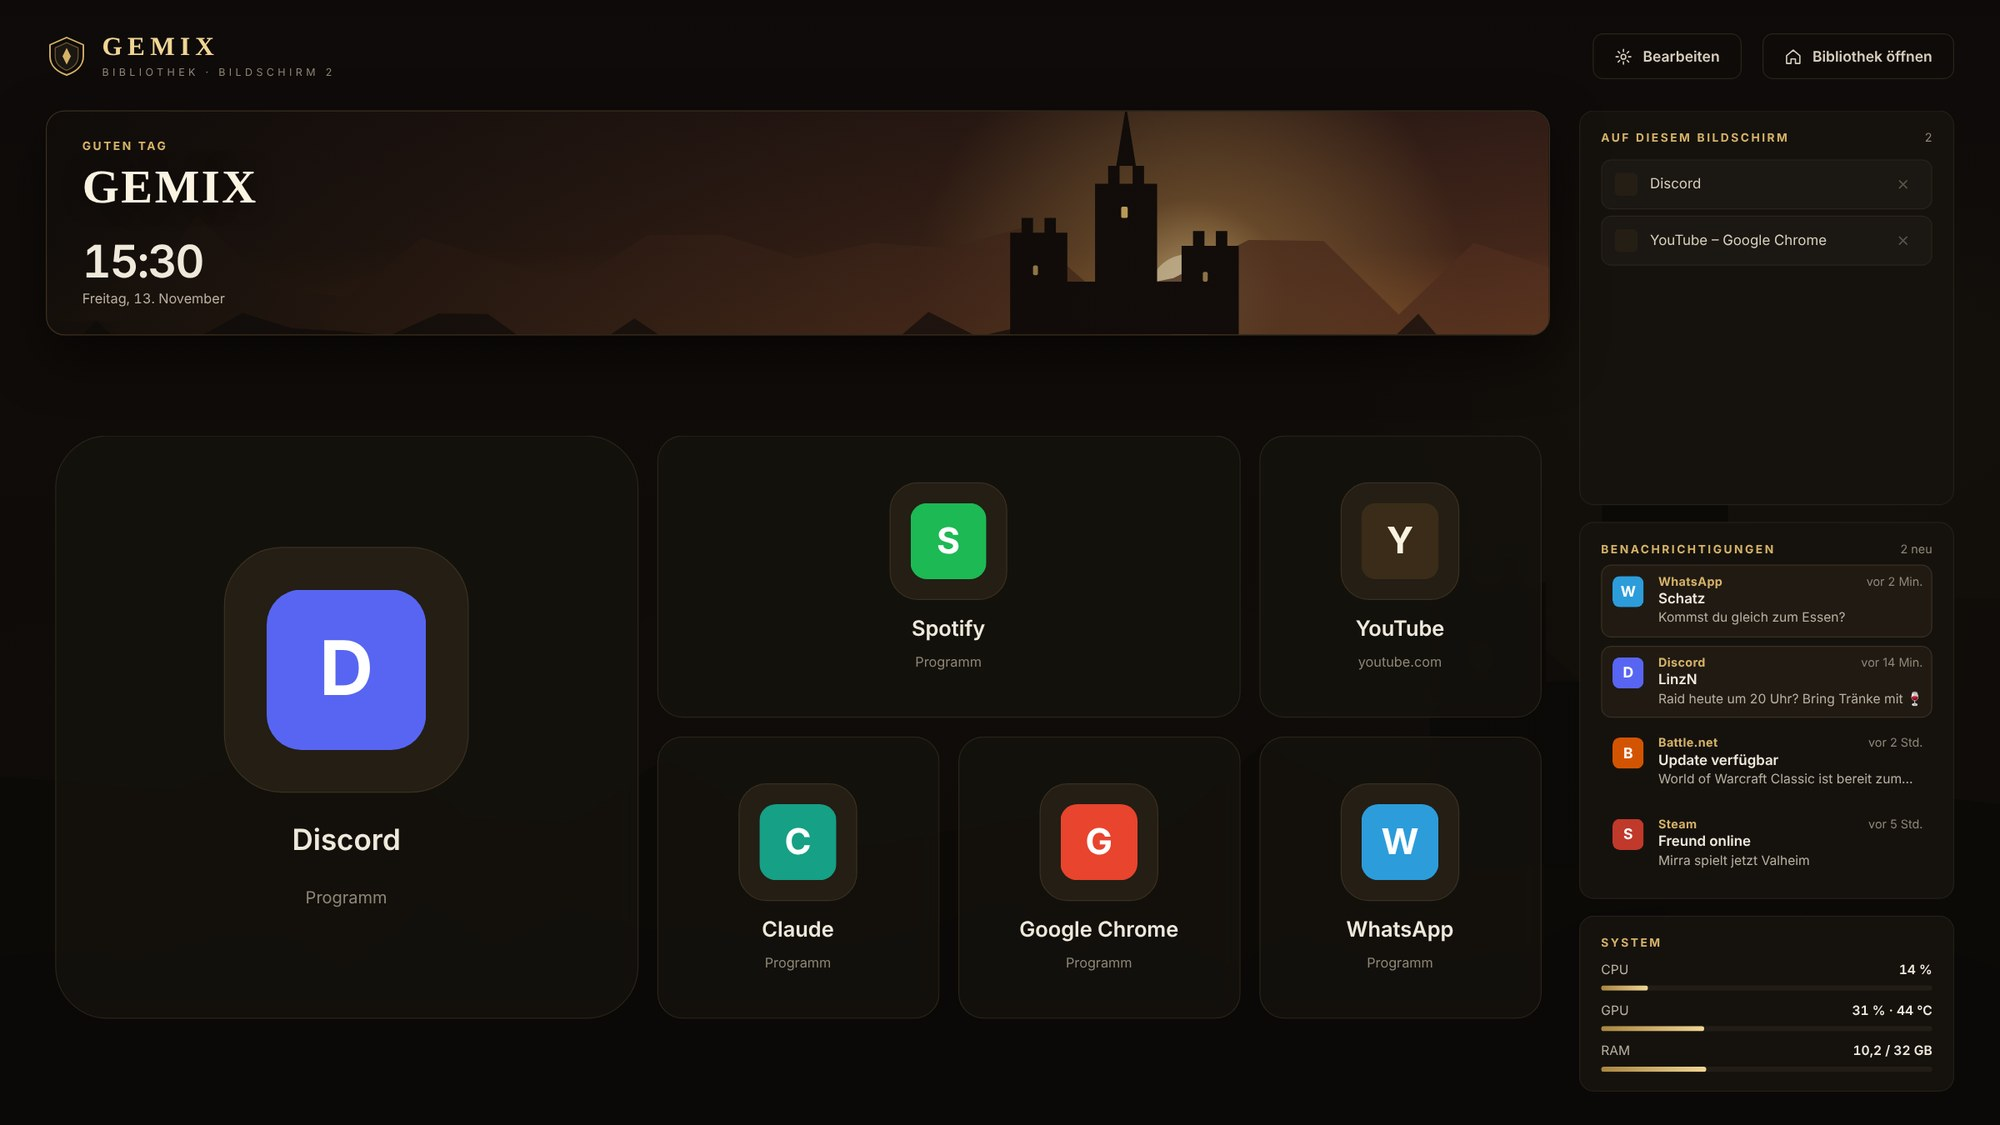
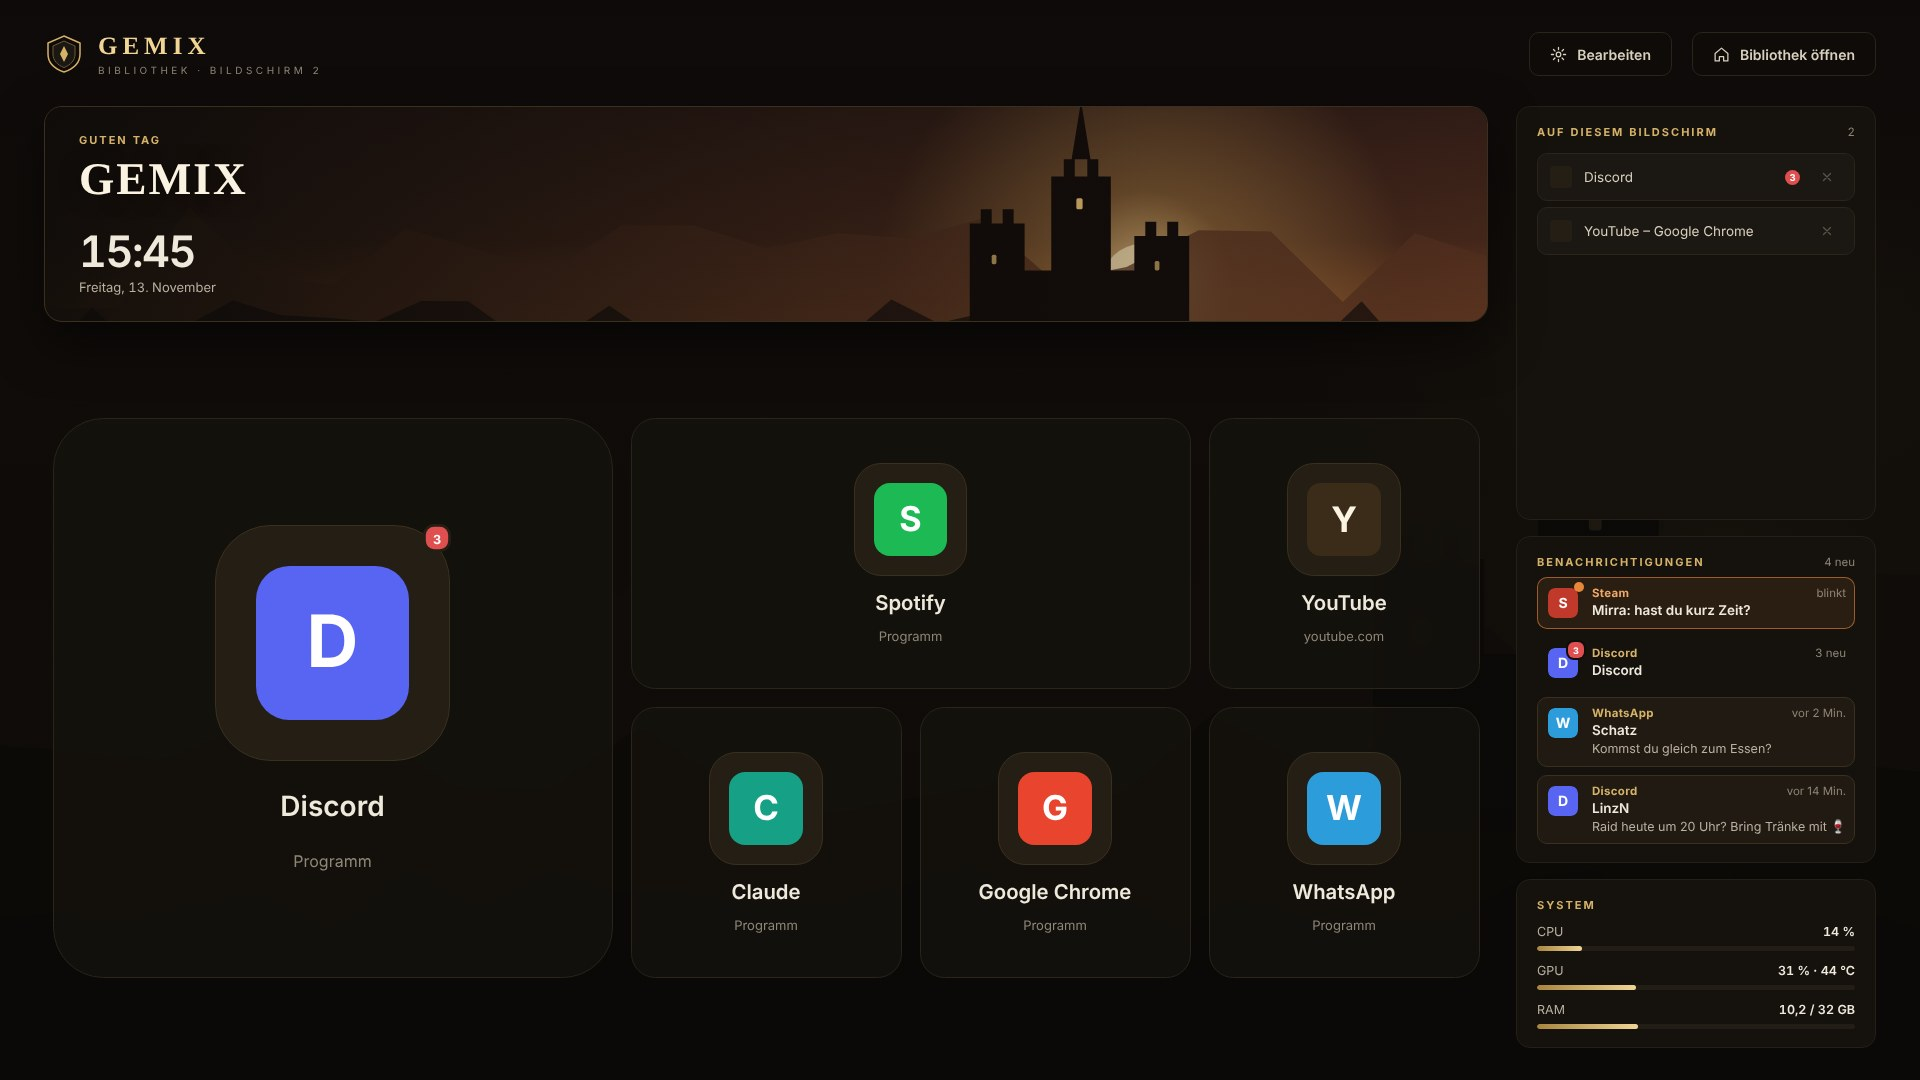
0.8.1: Blinkende Fenster und Zähler im Fenstertitel
- Shell-Hook im Helfer erkennt, wenn ein Fenster blinkt (HSHELL_FLASH) und
  wann es geöffnet wird – orange Markierung in Fensterleiste, Zweitbildschirm,
  Schnellstart und Glocke („Wartet auf dich“)
- Zahlen im Fenstertitel („(3) …“) als rotes Abzeichen
- Funktioniert unabhängig von Windows-Benachrichtigungen
- README, Screenshots und CHANGELOG aktualisiert

Claude-Session: https://claude.ai/code/session_017oZgUkV5yScUEX8fnBguhn

diff --git a/src/renderer/app.js b/src/renderer/app.js
@@ -146,6 +146,18 @@ document.addEventListener('load', (e) => {
   }
 }, true);
 
+/* Blinkende Fenster / Zahlen im Titel einer App zuordnen */
+const cleanTitle = (t) => String(t || '').replace(/^\s*[(\[]\d+[)\]]\s*/, '');
+const normP = (p) => String(p || '').replace(/\//g, '\\').toLowerCase();
+function liveForProgram(programId) {
+  const p = programId && progById(programId);
+  if (!p || !p.target) return null;
+  const t = normP(p.target);
+  const w = (S.notif && S.notif.live || []).find((x) => normP(x.path) === t);
+  return w || null;
+}
+const liveDot = (w) => (w ? `<span class="live-dot${w.attention ? ' attn' : ''}">${w.badge ? (w.badge > 99 ? '99+' : w.badge) : ''}</span>` : '');
+
 /* ───────── Schnellstart (gleiche Kacheln wie auf dem Zweitbildschirm) ───────── */
 function hostOfUrl(url) { try { return new URL(/^https?:/i.test(url) ? url : 'https://' + url).hostname; } catch { return ''; } }
 function quickIcon(t) {
@@ -173,7 +185,7 @@ function renderSide() {
     <div class="side-label gap">Ablage</div>
     ${nav('inbox', 'Eingangskorb', I.inbox, inboxCount ? `<span class="badge">${inboxCount}</span>` : '')}
     ${st && (st.config.quickTiles || []).length ? `<div class="side-label gap">Schnellstart</div>
-    <div class="side-quick">${st.config.quickTiles.map((t, i) => `<button class="nav quick-nav" data-act="side-tile" data-i="${i}" title="${esc(t.name)}"><span class="sq-ic">${quickIcon(t)}</span><span class="sq-t">${esc(t.name)}</span></button>`).join('')}</div>` : '<div class="side-spacer"></div>'}
+    <div class="side-quick">${st.config.quickTiles.map((t, i) => `<button class="nav quick-nav" data-act="side-tile" data-i="${i}" title="${esc(t.name)}"><span class="sq-ic">${quickIcon(t)}${t.type === 'program' ? liveDot(liveForProgram(t.programId)) : ''}</span><span class="sq-t">${esc(t.name)}</span></button>`).join('')}</div>` : '<div class="side-spacer"></div>'}
     <button class="nav side-toggle" data-act="side-toggle" title="${collapsed ? 'Leiste ausklappen' : 'Leiste einklappen'}">${collapsed ? I.chevR : I.chevL}<span class="lbl">Einklappen</span></button>
     ${nav('settings', 'Einstellungen', I.gear)}
     <div class="profile">
@@ -189,7 +201,7 @@ function renderTop() {
   const now = new Date();
   const winChips = S.wins.slice(0, 7).map((w) => {
     const ic = S.winIcons[w.path];
-    return `<button class="win-chip" data-act="win-focus" data-h="${w.h}" title="${esc(w.title)}">${ic ? `<img src="${ic}" alt="">` : '<span class="ph"></span>'}<span class="t">${esc(w.title)}</span>${multiMon() && w.mon ? `<span class="mon" title="Bildschirm ${w.mon}">${w.mon}</span>` : ''}<span class="x" data-act="win-close" data-h="${w.h}" title="Schließen">×</span></button>`;
+    return `<button class="win-chip${w.attention ? ' attention' : ''}" data-act="win-focus" data-h="${w.h}" title="${esc(w.title)}">${ic ? `<img src="${ic}" alt="">` : '<span class="ph"></span>'}${w.badge ? `<span class="chip-badge">${w.badge > 99 ? '99+' : w.badge}</span>` : ''}<span class="t">${esc(cleanTitle(w.title))}</span>${multiMon() && w.mon ? `<span class="mon" title="Bildschirm ${w.mon}">${w.mon}</span>` : ''}<span class="x" data-act="win-close" data-h="${w.h}" title="Schließen">×</span></button>`;
   }).join('');
   $('#top').innerHTML = `
     <button class="search-btn" data-act="search">${I.search}<span class="grow">Einfach lostippen – Spiele, Programme …</span><span class="kbd">Strg K</span></button>
@@ -839,6 +851,13 @@ function notifRow(n, compact) {
     <span class="n-body"><span class="n-head"><b>${esc(n.app)}</b><span>${esc(fmtAgo(n.time))}</span></span>
     <span class="n-title">${esc(n.title)}</span>${n.body ? `<span class="n-text">${esc(n.body)}</span>` : ''}</span></button>`;
 }
+function liveRow(w, compact) {
+  const ic = w.icon ? `<span class="mono">${esc(w.app.charAt(0))}</span><img src="${esc(w.icon)}" data-srcs="${attr([w.icon])}" alt="">` : `<span class="mono">${esc((w.app || '?').charAt(0))}</span>`;
+  return `<button class="notif live${w.attention ? ' attn' : ''}${compact ? ' compact' : ''}" data-act="win-focus" data-h="${w.h}">
+    <span class="n-ic">${ic}${liveDot(w)}</span>
+    <span class="n-body"><span class="n-head"><b>${esc(w.app)}</b><span>${w.attention ? 'blinkt' : w.badge ? w.badge + ' neu' : ''}</span></span>
+    <span class="n-title">${esc(w.title)}</span></span></button>`;
+}
 function fmtAgo(ts) {
   if (!ts) return '';
   const m = Math.round((Date.now() - ts) / 60000);
@@ -852,8 +871,10 @@ function notifPopover(anchor) {
   const N = S.notif || { items: [] };
   popover(anchor, `<div class="notif-pop">
     <div class="notif-pop-head"><span class="eyebrow">Benachrichtigungen</span><span class="muted" style="margin-left:auto;font-size:11.5px">${N.items.length ? N.items.length + ' zuletzt' : ''}</span></div>
-    <div class="notif-list">${N.error ? `<div class="muted" style="padding:16px;line-height:1.5">${esc(N.error)}</div>` : ''}
-      ${N.items.length ? N.items.map((n) => notifRow(n)).join('') : N.error ? '' : '<div class="muted" style="padding:20px;line-height:1.6">Keine Benachrichtigungen.<br><span style="font-size:11.5px">Hier erscheint, was Apps wie WhatsApp, Discord oder Battle.net an Windows melden.</span></div>'}</div>
+    <div class="notif-list">
+      ${(N.live || []).length ? `<div class="res-group" style="padding:4px 6px">Wartet auf dich</div>${N.live.map((w) => liveRow(w)).join('')}<div class="res-group" style="padding:10px 6px 4px">Windows-Benachrichtigungen</div>` : ''}
+      ${N.error ? `<div class="muted" style="padding:16px;line-height:1.5">${esc(N.error)}</div>` : ''}
+      ${N.items.length ? N.items.map((n) => notifRow(n)).join('') : N.error ? '' : `<div class="muted" style="padding:${(N.live || []).length ? '8px 10px' : '20px'};line-height:1.6;font-size:12.5px">${(N.live || []).length ? 'Keine Windows-Benachrichtigungen.' : 'Alles ruhig.<br><span style="font-size:11.5px">Hier erscheint, wenn eine App blinkt (z. B. Steam), eine Zahl im Fenstertitel hat oder an Windows meldet.</span>'}</div>`}</div>
   </div>`, true);
   if (N.unread) gx.notifSeen().catch(() => {});
 }
@@ -938,7 +959,7 @@ const ACTIONS = {
   'notif-open': (d) => { closePopover(); act(gx.notifOpen(d.app)); },
   'power-pop': (_d, el) => powerPopover(el),
   tool: (d) => { closePopover(); act(gx.tool(d.key)); },
-  'win-focus': (d) => act(gx.focusWindow(+d.h)),
+  'win-focus': (d) => { closePopover(); act(gx.focusWindow(+d.h)); },
   'win-close': (d) => { act(gx.closeWindow(+d.h)); setTimeout(refreshWindows, 600); },
   power: async (d) => {
     closePopover();
@@ -1202,10 +1223,11 @@ gx.on('notifications', (n) => {
   S.notif = n;
   if (IS_COMPANION) { if (window.renderCompanion) window.renderCompanion(); return; }
   renderTop();
+  renderSide();
 });
 gx.on('winkey', () => { if (IS_COMPANION) return; closePopover(); refreshWindows(); });
 gx.on('inbox-changed', () => { if (!IS_COMPANION) loadInbox(); });
-gx.on('windows', () => { if (IS_COMPANION) return; refreshWindows(); refreshVolume(); });
+gx.on('windows', () => { if (IS_COMPANION) { if (window.refreshCompanion) window.refreshCompanion(); return; } refreshWindows(); refreshVolume(); });
 
 if (!IS_COMPANION) (async function init() {
   S.state = await gx.state();

diff --git a/src/renderer/companion.js b/src/renderer/companion.js
@@ -36,7 +36,7 @@
     const [w, h] = SIZES[t.size || 's'];
     const sub = t.type === 'web' ? esc(hostOf(t.url).replace(/^www\./, '')) : 'Programm';
     return `<button class="quick${S.compEdit ? ' editing' : ''}" style="grid-column:span ${w};grid-row:span ${h}" data-act="${S.compEdit ? 'noop' : 'q-open'}" data-i="${i}" data-w="${w}" data-h="${h}" title="${esc(t.type === 'web' ? t.url : t.name)}">
-      <span class="qi">${tileIcon(t)}</span><span class="qn">${esc(t.name)}</span><span class="qs">${sub}</span>
+      <span class="qi">${tileIcon(t)}${t.type === 'program' ? liveDot(liveForProgram(t.programId)) : ''}</span><span class="qn">${esc(t.name)}</span><span class="qs">${sub}</span>
       ${S.compEdit ? `<span class="qedit">
         <span class="qb" data-act="q-move" data-i="${i}" data-d="-1" title="Nach vorne">‹</span>
         <span class="qb wide" data-act="q-size" data-i="${i}" title="Größe ändern">${SIZES[t.size || 's'][2]}</span>
@@ -94,12 +94,13 @@
           ${L.side ? `<aside class="comp-side">
             <section class="panel widget" style="flex:1;min-height:0">
               <div class="widget-head"><span class="eyebrow">Auf diesem Bildschirm</span><span class="r">${here.length || ''}</span></div>
-              <div class="comp-wins">${here.length ? here.map((w) => `<button class="comp-win" data-act="win-focus" data-h="${w.h}">${S.winIcons[w.path] ? `<img src="${S.winIcons[w.path]}" alt="">` : '<span class="ph"></span>'}<span class="t">${esc(w.title)}</span><span class="x" data-act="cw-close" data-h="${w.h}" title="Schließen">${I.x}</span></button>`).join('')
+              <div class="comp-wins">${here.length ? here.map((w) => `<button class="comp-win${w.attention ? ' attention' : ''}" data-act="win-focus" data-h="${w.h}">${S.winIcons[w.path] ? `<img src="${S.winIcons[w.path]}" alt="">` : '<span class="ph"></span>'}<span class="t">${esc(cleanTitle(w.title))}</span>${w.badge ? `<span class="chip-badge static">${w.badge > 99 ? '99+' : w.badge}</span>` : ''}<span class="x" data-act="cw-close" data-h="${w.h}" title="Schließen">${I.x}</span></button>`).join('')
                 : '<div class="muted" style="font-size:13px;line-height:1.6">Hier ist gerade nichts geöffnet. Starte etwas aus dem Schnellstart – es landet direkt auf diesem Bildschirm.</div>'}</div>
             </section>
-            ${S.notif && S.notif.items.length ? `<section class="panel widget" style="gap:8px">
+            ${S.notif && (S.notif.items.length || (S.notif.live || []).length) ? `<section class="panel widget" style="gap:8px">
               <div class="widget-head"><span class="eyebrow">Benachrichtigungen</span><span class="r">${S.notif.unread ? S.notif.unread + ' neu' : ''}</span></div>
-              ${S.notif.items.slice(0, 4).map((n) => notifRow(n, true)).join('')}
+              ${(S.notif.live || []).slice(0, 3).map((w) => liveRow(w, true)).join('')}
+              ${S.notif.items.slice(0, Math.max(0, 4 - (S.notif.live || []).length)).map((n) => notifRow(n, true)).join('')}
             </section>` : ''}
             ${sys ? `<section class="panel widget" style="gap:12px">
               <div class="widget-head"><span class="eyebrow">System</span></div>
@@ -228,12 +229,13 @@
     },
   });
 
+  window.refreshCompanion = () => refresh();
   let lastKey = '';
   async function refresh() {
     const list = await gx.windows().catch(() => null);
     let changed = false;
     if (list) {
-      const key = JSON.stringify(list.map((w) => [w.h, w.title, w.mon]));
+      const key = JSON.stringify(list.map((w) => [w.h, w.title, w.mon, w.attention, w.badge]));
       changed = key !== lastKey;
       lastKey = key;
       wins = list;

diff --git a/src/main.js b/src/main.js
@@ -168,10 +168,26 @@ async function launchOnDisplay(displayId, launch, matchPath) {
 }
 
 /* Fensterliste mit Bildschirmnummer (1, 2, 3 …) */
+/* Fenster, die Aufmerksamkeit wollen (blinken in der Taskleiste – z. B. Steam orange, Discord bei Direktnachrichten) */
+const attention = new Map(); // hwnd -> Zeitpunkt
+let lastWins = [];
+helper.on('flash', (ev) => {
+  const h = Number(ev && ev.h) || 0;
+  if (!h || ourHandles().has(h) || attention.has(h)) return;
+  attention.set(h, Date.now());
+  windowsWithMon().then(() => { send('windows'); send('notifications', notifPayload()); });
+});
+const clearAttention = (ev) => {
+  const h = Number(ev && ev.h) || 0;
+  if (attention.delete(h)) { send('windows'); send('notifications', notifPayload()); }
+};
+helper.on('activated', clearAttention);
+helper.on('destroyed', clearAttention);
+
 async function windowsWithMon() {
   const list = (await helper.safe('windows', { selfPid: process.pid }, [])) || [];
   const displays = displayList();
-  return list.map((w) => {
+  const res = list.map((w) => {
     let mon = null;
     try {
       const pt = screen.screenToDipPoint({ x: Math.round((w.l + w.r) / 2), y: Math.round((w.t + w.b) / 2) });
@@ -179,8 +195,13 @@ async function windowsWithMon() {
       const e = displays.find((x) => x.id === d.id);
       mon = e ? e.nr : null;
     } catch {}
-    return { h: w.h, title: w.title, path: w.path, mon };
+    const m = String(w.title || '').match(/^\s*[(\[](\d{1,4})[)\]]\s/);
+    return { h: w.h, title: w.title, path: w.path, mon, badge: m ? +m[1] : 0, attention: attention.has(w.h) };
   });
+  lastWins = res;
+  // Fenster, die es nicht mehr gibt, vergessen
+  for (const h of [...attention.keys()]) if (!res.some((w) => w.h === h)) attention.delete(h);
+  return res;
 }
 
 async function openUrl(url, displayId) {
@@ -1093,7 +1114,15 @@ function notifPayload() {
     const v = p ? programView(p) : null;
     return Object.assign({}, n, { icon: v ? v.icon : null, programId: p ? p.id : null, unread: n.time > seen });
   });
-  return { items, unread: items.filter((n) => n.unread).length, error: notifs.error };
+  // Blinkende Fenster und Zahlen im Fenstertitel – funktioniert auch ohne Windows-Benachrichtigungen
+  const progByPath = (p) => p && cache.programs.find((x) => x.target && U.normPath(x.target) === U.normPath(p));
+  const nameFor = (w) => { const p = progByPath(w.path); return p ? p.name : (w.path ? path.basename(w.path, path.extname(w.path)) : w.title); };
+  const iconFor = (w) => { const p = progByPath(w.path); return p ? programView(p).icon : null; };
+  const live = lastWins
+    .filter((w) => attention.has(w.h) || w.badge > 0)
+    .map((w) => ({ kind: 'window', h: w.h, app: nameFor(w), title: w.title.replace(/^\s*[(\[]\d+[)\]]\s*/, ''), badge: w.badge, attention: attention.has(w.h), time: attention.get(w.h) || 0, icon: iconFor(w), path: w.path }));
+  const liveCount = live.filter((w) => w.attention).length + live.filter((w) => !w.attention && w.badge > 0).length;
+  return { items, live, unread: items.filter((n) => n.unread).length + liveCount, error: notifs.error };
 }
 async function pollNotifications(force) {
   if (process.platform !== 'win32') return;

diff --git a/src/renderer/styles.css b/src/renderer/styles.css
@@ -478,3 +478,16 @@ body.companion { background: var(--bg); }
 .n-text { font-size: 12.5px; color: var(--text-3); line-height: 1.4; overflow: hidden; display: -webkit-box; -webkit-line-clamp: 2; -webkit-box-orient: vertical; }
 .notif.compact { padding: 8px; }
 .notif.compact .n-text { -webkit-line-clamp: 1; }
+
+/* ───────── Aufmerksamkeit (blinkt wie in der Taskleiste) ───────── */
+@keyframes attn { 0%, 100% { box-shadow: 0 0 0 0 rgba(232,135,58,0); } 50% { box-shadow: 0 0 0 3px rgba(232,135,58,.35); } }
+.win-chip.attention, .comp-win.attention { border-color: #e8873a; background: linear-gradient(180deg, rgba(232,135,58,.22), rgba(232,135,58,.08)); color: #ffd9b8; animation: attn 1.6s ease-in-out infinite; }
+.chip-badge { position: absolute; left: 20px; top: 4px; min-width: 15px; height: 15px; padding: 0 4px; border-radius: 8px; background: #e04f4f; color: #fff; font-size: 9.5px; font-weight: 700; display: flex; align-items: center; justify-content: center; z-index: 2; }
+.chip-badge.static { position: static; margin-left: auto; }
+.live-dot { position: absolute; right: -4px; top: -4px; z-index: 3; min-width: 10px; height: 10px; padding: 0; border-radius: 6px; background: #e04f4f; color: #fff; font-size: 9px; font-weight: 700; display: flex; align-items: center; justify-content: center; box-shadow: 0 0 0 2px var(--side); }
+.live-dot:not(:empty) { min-width: 16px; height: 16px; padding: 0 4px; }
+.live-dot.attn { background: #e8873a; animation: attn 1.6s ease-in-out infinite; }
+.quick .live-dot { right: 4px; top: 4px; transform: scale(1.4); box-shadow: 0 0 0 2px var(--panel-3); }
+.notif.attn { border-color: rgba(232,135,58,.6); background: rgba(232,135,58,.1); }
+.notif.attn .n-head b { color: #f0a868; }
+.notif.live .n-ic { overflow: visible; }

diff --git a/README.md b/README.md
@@ -4,7 +4,7 @@
 
 <p align="center">
   <img src="https://img.shields.io/badge/Windows-10%20%7C%2011-1b1712?style=for-the-badge&logo=windows&logoColor=d6b268&labelColor=0b0a08" alt="Windows 10 | 11">
-  <img src="https://img.shields.io/badge/Version-0.8-1b1712?style=for-the-badge&labelColor=0b0a08&color=a8853f" alt="Version 0.8">
+  <img src="https://img.shields.io/badge/Version-0.8.1-1b1712?style=for-the-badge&labelColor=0b0a08&color=a8853f" alt="Version 0.8.1">
   <img src="https://img.shields.io/badge/Electron-33-1b1712?style=for-the-badge&logo=electron&logoColor=d6b268&labelColor=0b0a08" alt="Electron">
   <img src="https://img.shields.io/badge/Sprache-Deutsch-1b1712?style=for-the-badge&labelColor=0b0a08&color=6e5a32" alt="Deutsch">
 </p>
@@ -88,7 +88,7 @@ Ton, Anzeige, Netzwerk, Bluetooth, Systemsteuerung, Task-Manager & Co. als Kache
 </tr>
 </table>
 
-**Außerdem:** 🔔 **Benachrichtigungen** von WhatsApp, Discord, Battle.net & Co. an einem Ort · Dateien per **Drag & Drop** direkt in WhatsApp, Discord oder Mail ziehen · **einklappbare Seitenleiste** (nur Icons) · Eingangskorb, der neue Downloads mit einem Klick einsortiert · eigene Dateiansicht für deine Ordner · Leiste mit allen offenen Fenstern als Taskleisten-Ersatz · System-Anzeige für CPU, GPU und RAM · Steuerung mit Maus, Tastatur oder Controller · persönliche Begrüßung mit deinem Namen.
+**Außerdem:** 🔔 **Benachrichtigungen** von WhatsApp, Discord, Battle.net & Co. an einem Ort – inklusive **orange blinkender Fenster** wie in der Taskleiste und Zählern im Fenstertitel · Dateien per **Drag & Drop** direkt in WhatsApp, Discord oder Mail ziehen · **einklappbare Seitenleiste** (nur Icons) · Eingangskorb, der neue Downloads mit einem Klick einsortiert · eigene Dateiansicht für deine Ordner · Leiste mit allen offenen Fenstern als Taskleisten-Ersatz · System-Anzeige für CPU, GPU und RAM · Steuerung mit Maus, Tastatur oder Controller · persönliche Begrüßung mit deinem Namen.
 
 ---
 
@@ -214,7 +214,7 @@ Die Bibliothek stellt die ursprüngliche Einstellung beim nächsten Beenden wied
 <summary><b>Benachrichtigungen erscheinen nicht</b></summary>
 <br>
 
-Die Bibliothek zeigt, was Apps an **Windows** melden. In der jeweiligen App müssen Desktop-Benachrichtigungen eingeschaltet sein (z. B. Discord: *Einstellungen → Benachrichtigungen*) und in Windows unter *Einstellungen → System → Benachrichtigungen* erlaubt sein. Steam zeigt viele Hinweise nur im eigenen Fenster oder Overlay – die kommen nicht bei Windows an.
+Blinkende Fenster (z. B. Steam) und Zahlen im Fenstertitel erkennt die Bibliothek immer – auch ohne Windows-Benachrichtigungen. Für die Liste der Mitteilungen gilt: Die Bibliothek zeigt, was Apps an **Windows** melden. In der jeweiligen App müssen Desktop-Benachrichtigungen eingeschaltet sein (z. B. Discord: *Einstellungen → Benachrichtigungen*) und in Windows unter *Einstellungen → System → Benachrichtigungen* erlaubt sein. Steam zeigt viele Hinweise nur im eigenen Fenster oder Overlay – die kommen nicht bei Windows an.
 
 </details>
 

diff --git a/CHANGELOG.md b/CHANGELOG.md
@@ -1,5 +1,10 @@
 # Änderungen
 
+## 0.8.1 – Blinken & Zähler
+- Fenster, die in der Taskleiste blinken würden (z. B. Steam orange, Discord bei Direktnachrichten), leuchten in der Bibliothek orange – in „Geöffnet“, auf dem Zweitbildschirm, im Schnellstart und unter „Wartet auf dich“ in der Glocke
+- Zahlen im Fenstertitel (z. B. „(3) YouTube“) erscheinen als rotes Abzeichen
+- Funktioniert auch, wenn Windows-Benachrichtigungen ausgeschaltet sind
+
 ## 0.8 – Benachrichtigungen & Teilen
 - 🔔 Benachrichtigungen von WhatsApp, Discord, Battle.net & Co. – Glocke mit Zähler, Klick öffnet die App; die neuesten auch auf dem Zweitbildschirm
 - Dateien aus „Ordner“ und dem Eingangskorb per Drag & Drop in andere Programme ziehen (WhatsApp, Discord, Mail …)
